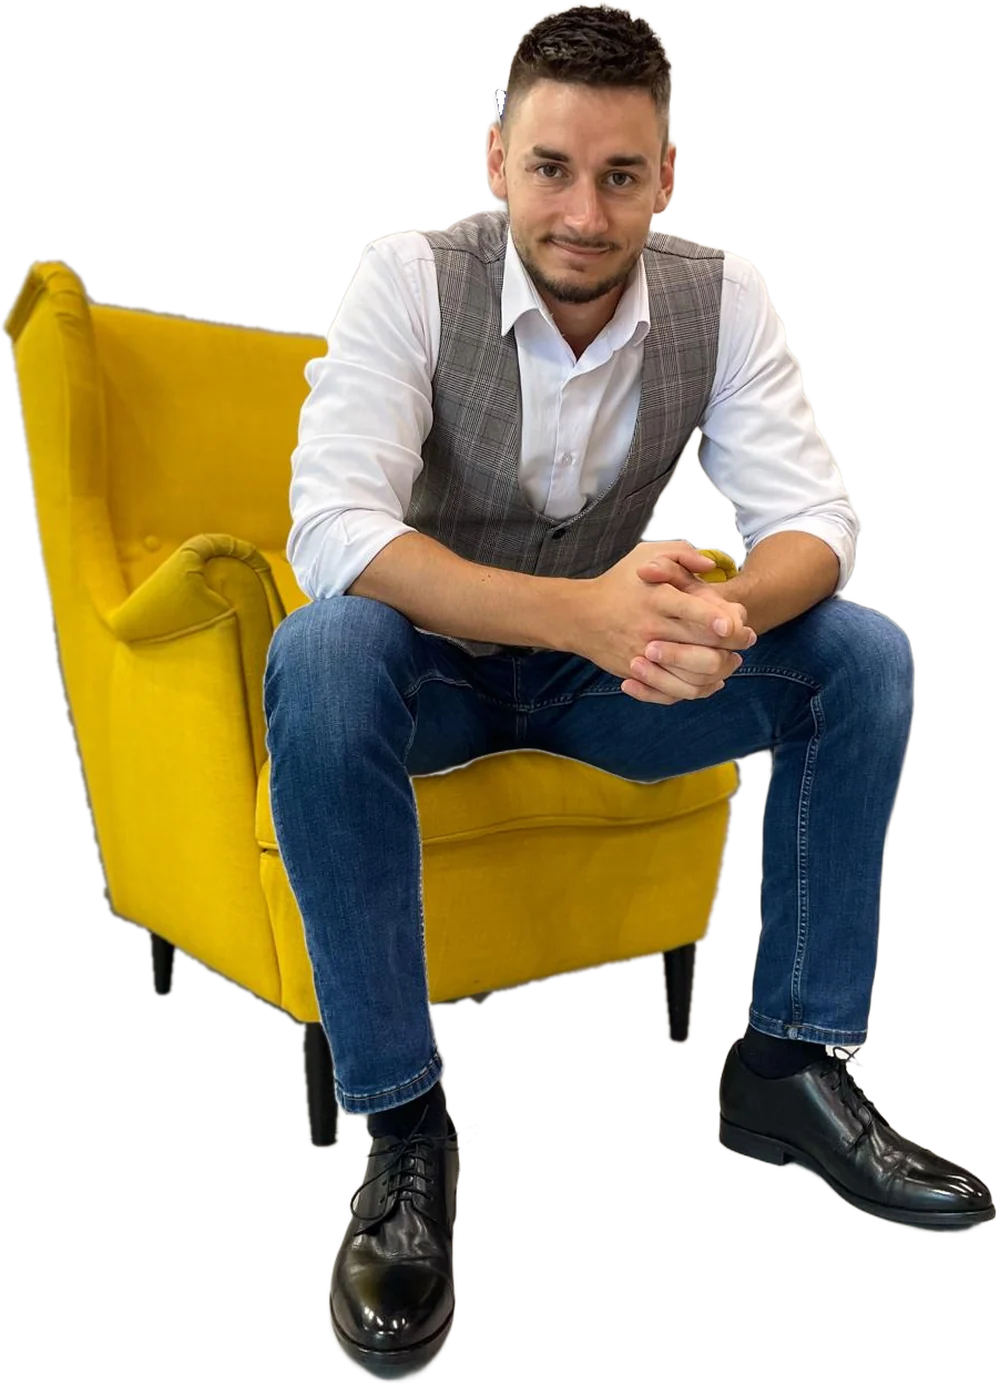
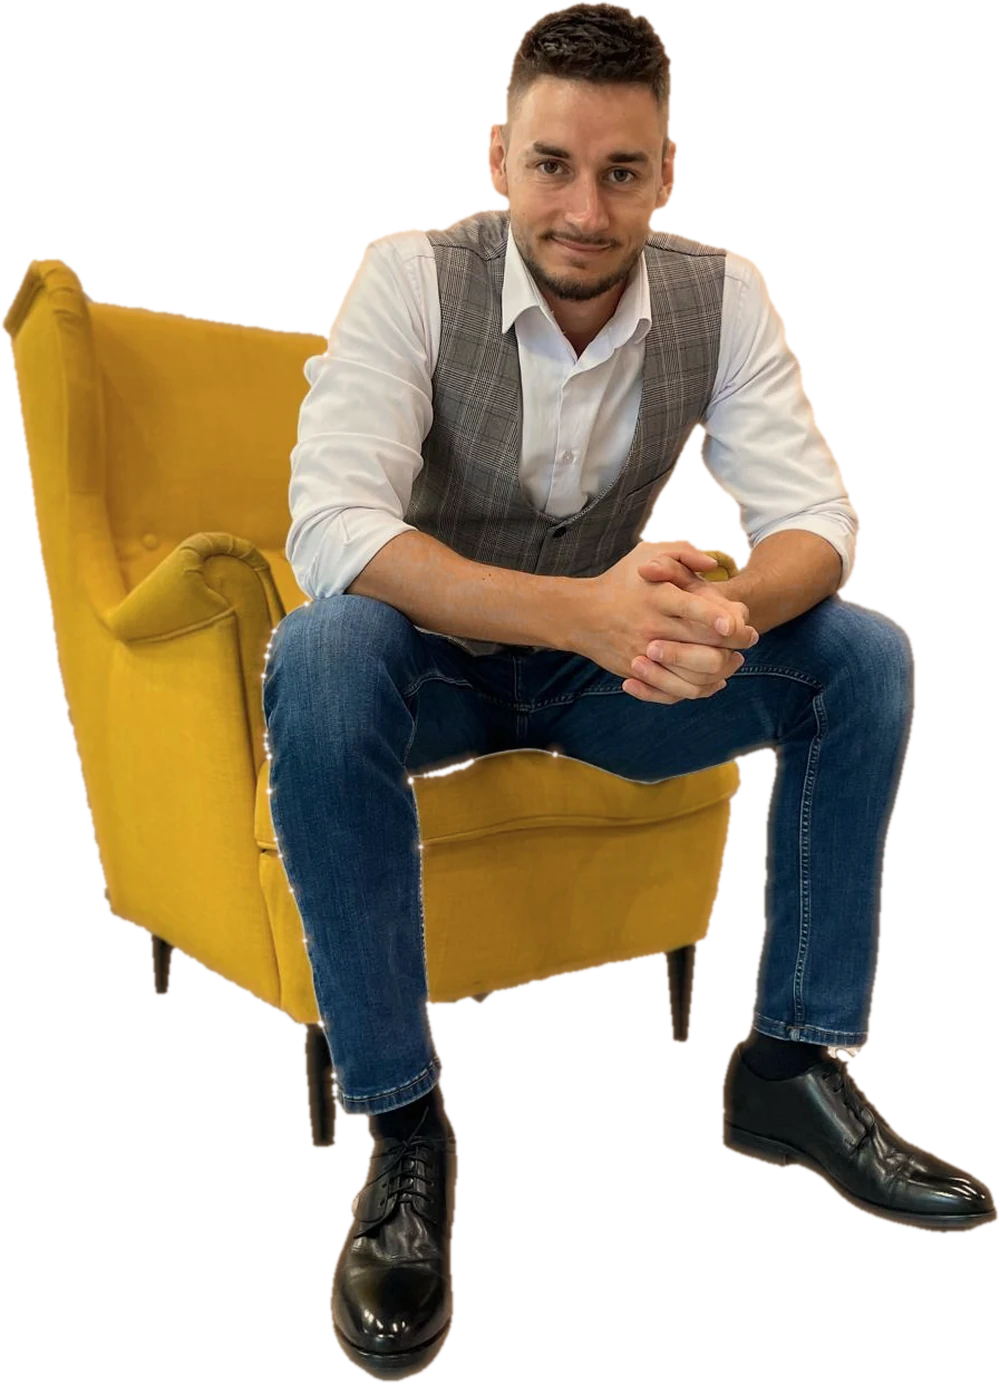
Hero: cleaner cutout edges around the head, warmer grade and backlight so Martin blends into the scene
Claude-Session: https://claude.ai/code/session_01XveHKLnsFwLCpa5MZjjMeN

Changed region(s): [[0.0, 0.0, 1.0, 1.0], [0.62, 0.466, 0.682, 0.4971]]

diff --git a/style.css b/style.css
@@ -1387,9 +1387,9 @@ html.intro-on:not(.intro-out) .hero *, html.intro-on:not(.intro-out) .svc-hero *
 
 /* úvod: Martin v kresle bez kruhu, len s tieňom na zemi a teplým svetlom za ním */
 .hero__circle, .hero__ring { display: none; }
-.hero__visual::before { content: ""; position: absolute; left: 50%; bottom: 8%; width: 80%; aspect-ratio: 1; translate: -50% 0; border-radius: 50%;
-  background: radial-gradient(closest-side, rgba(224, 154, 91, .22), transparent 75%); pointer-events: none; }
+.hero__visual::before { content: ""; position: absolute; left: 50%; bottom: 14%; width: 105%; aspect-ratio: 1; translate: -50% 0; border-radius: 50%;
+  background: radial-gradient(closest-side, rgba(224, 154, 91, .30), rgba(224, 154, 91, .10) 55%, transparent 78%); filter: blur(10px); pointer-events: none; }
 .hero__visual::after { content: ""; position: absolute; left: 50%; bottom: calc(4.6rem - 2%); width: 62%; height: 7%; translate: -50% 0; border-radius: 50%;
-  background: radial-gradient(closest-side, rgba(0, 0, 0, .55), transparent); z-index: 1; pointer-events: none; }
-.hero__person { width: min(500px, 92%); margin-bottom: 4.6rem; filter: drop-shadow(0 24px 30px rgba(0, 0, 0, .35)); }
+  background: radial-gradient(closest-side, rgba(0, 0, 0, .7), rgba(0, 0, 0, .25) 60%, transparent); z-index: 1; pointer-events: none; }
+.hero__person { width: min(500px, 92%); margin-bottom: 4.6rem; filter: drop-shadow(0 24px 30px rgba(0, 0, 0, .35)) drop-shadow(0 0 40px rgba(224, 154, 91, .12)); }
 @media (max-width: 900px) { .hero__person { width: min(340px, 78%); margin-bottom: 1.8rem; } .hero__visual::after { bottom: calc(1.8rem - 2%); } }

diff --git a/index.html b/index.html
@@ -134,7 +134,7 @@
                src="img/martin-kreslo-1000.webp"
                srcset="img/martin-kreslo-640.webp 640w, img/martin-kreslo-1000.webp 1000w"
                sizes="(max-width: 900px) 80vw, 520px"
-               width="1000" height="1385"
+               width="1000" height="1384"
                alt="Martin Juriga v kresle, finančný sprostredkovateľ" />
 
         </div>
